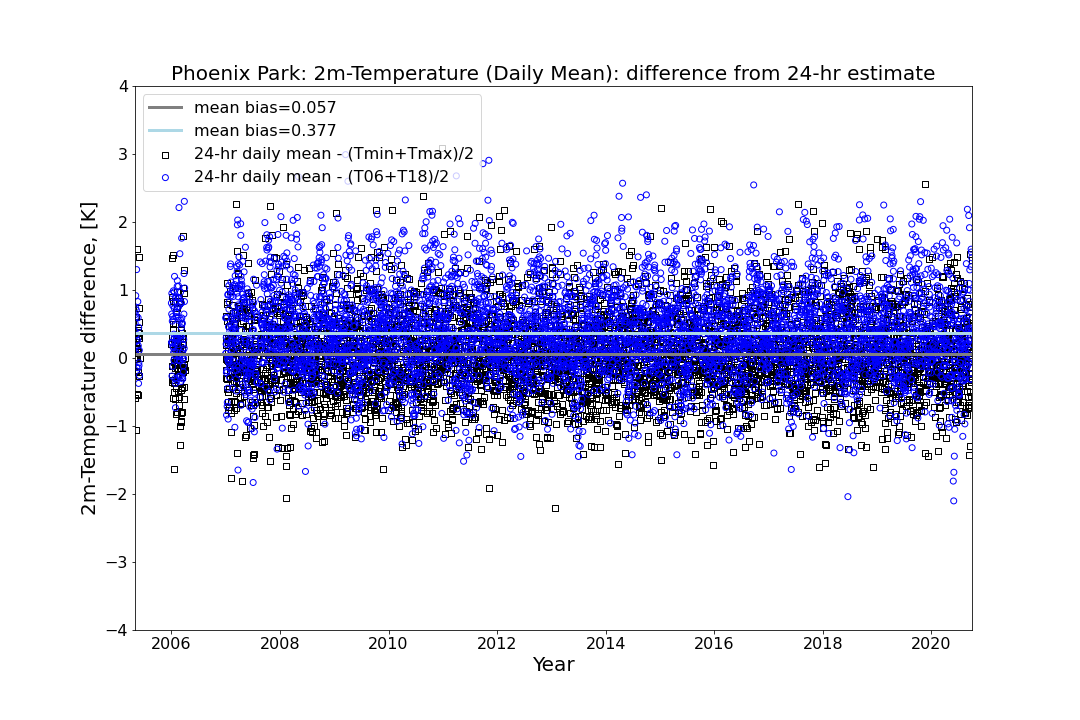
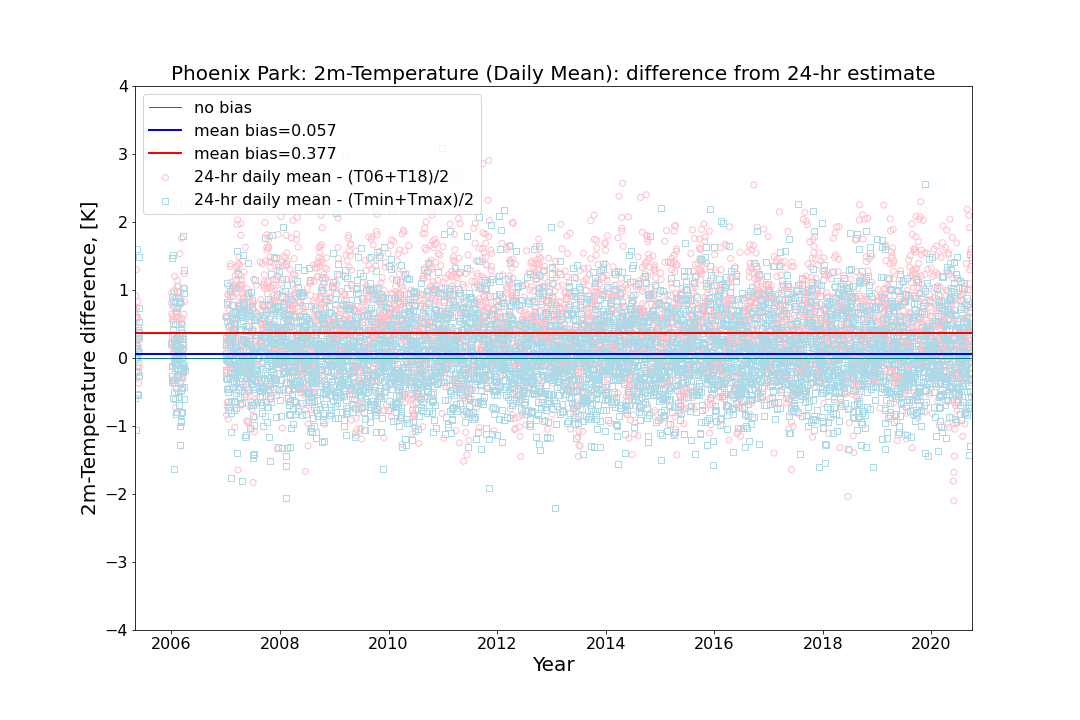
Monthly Tmeans. Added linear regression routine and correlation plots comparing daily and monthly values.

Changed region(s): [[0.1222, 0.1222, 0.9167, 0.6722]]

diff --git a/ANALYSIS/Hourly Data - Phoenix Park/hourly-analysis.py b/ANALYSIS/Hourly Data - Phoenix Park/hourly-analysis.py
@@ -4,8 +4,8 @@
 #------------------------------------------------------------------------------
 # PROGRAM: hourly-analysis.py
 #------------------------------------------------------------------------------
-# Version 0.1
-# 16 October, 2020
+# Version 0.2
+# 19 October, 2020
 # Michael Taylor
 # https://patternizer.github.io
 # patternizer AT gmail DOT com
@@ -57,6 +57,11 @@ import sys
 import subprocess
 from subprocess import Popen
 import time
+# Stats libraries:
+from sklearn import datasets, linear_model
+from sklearn.linear_model import LinearRegression, TheilSenRegressor
+from sklearn.linear_model import RANSACRegressor
+from sklearn.metrics import mean_squared_error, r2_score
 
 # Silence library version notifications
 import warnings
@@ -72,8 +77,28 @@ warnings.filterwarnings("ignore", message="numpy.ufunc size changed")
 
 fontsize = 20
 load_hourly = True
-hourly_analysis = True
-plot_hourly_analysis = True
+
+#------------------------------------------------------------------------------
+# METHODS: 
+#------------------------------------------------------------------------------
+
+def linear_regression_ols(x,y):
+
+    regr = linear_model.LinearRegression()
+    # regr = TheilSenRegressor(random_state=42)
+    # regr = RANSACRegressor(random_state=42)
+
+    X = x[:, np.newaxis]    
+    # X = x.values.reshape(len(x),1)
+    t = np.linspace(X.min(),X.max(),len(X)) # dummy var spanning [xmin,xmax]        
+    regr.fit(X, y)
+    ypred = regr.predict(t.reshape(-1, 1))
+    slope = regr.coef_
+    intercept = regr.intercept_
+    mse = mean_squared_error(y,ypred)
+    r2 = r2_score(y,ypred) 
+    
+    return t, ypred, slope, intercept, mse, r2
 
 #------------------------------------------------------------------------------
 # LOAD HOURLY DATA
@@ -141,122 +166,225 @@ else:
 # PERFORM HOURLY ANALYSIS
 #------------------------------------------------------------------------------
 
-if hourly_analysis == True:
-    
-    print('perform hourly analysis ...')
+print('perform hourly analysis ...')
 
-    daily_mean = df.groupby(['yyyy','mm','dd']).mean()['temp'] # AWS: 00:00 --> 23:00
-    daily_min = df.groupby(['yyyy','mm','dd']).min()['temp']
-    daily_max = df.groupby(['yyyy','mm','dd']).max()['temp']
-    daily_hh = np.array(df.groupby(['yyyy','mm','dd','hh'])['temp'])
-    daily = np.array(df.groupby(['yyyy','mm','dd'])['temp'])
+daily_mean = df.groupby(['yyyy','mm','dd']).mean()['temp'] # AWS: 00:00 --> 23:00
+daily_min = df.groupby(['yyyy','mm','dd']).min()['temp']
+daily_max = df.groupby(['yyyy','mm','dd']).max()['temp']
+daily_hh = np.array(df.groupby(['yyyy','mm','dd','hh'])['temp'])
+daily = np.array(df.groupby(['yyyy','mm','dd'])['temp'])
     
-#   Tx is read at 18 and Tn at 06.  In some parts of world (e.g. Europe) the Tx refers to the 06-18 period and the Tn to 18-06.
+# Tx is read at 18 and Tn at 06.  In some parts of world (e.g. Europe) the Tx refers to the 06-18 period and the Tn to 18-06.
 
-    t_daily = [ pd.to_datetime(str(daily_mean.index[i][0])+'-'+str(daily_mean.index[i][1])+'-'+str(daily_mean.index[i][2])) for i in range(len(daily_mean))]
-    daily_tmean = (daily_min+daily_max)/2
-    dates_tn_06 = []
-    dates_tx_18 = []
-    daily_tn_06 = []
-    daily_tx_18 = []
-    mask = []
-    for i in range(len(daily_hh)):
-        if daily_hh[i][0][3] == 6:            
-            obs = daily_hh[i][1]
-            date = pd.to_datetime(str(daily_hh[i][0][0])+'-'+str(daily_hh[i][0][1])+'-'+str(daily_hh[i][0][2]))
-            daily_tn_06.append(obs)            
-            dates_tn_06.append(date)            
-        if daily_hh[i][0][3] == 18:            
-            obs = daily_hh[i][1]
-            date = pd.to_datetime(str(daily_hh[i][0][0])+'-'+str(daily_hh[i][0][1])+'-'+str(daily_hh[i][0][2]))
-            daily_tx_18.append(obs)            
-            dates_tx_18.append(date)                    
-    daily_tn_06 = np.array(daily_tn_06)
-    daily_tx_18 = np.array(daily_tx_18)
-    dates_tmean_06_18 = dates_tx_18
-    daily_tmean_06_18 = (daily_tn_06+daily_tx_18)/2
+t_daily = [ pd.to_datetime(str(daily_mean.index[i][0])+'-'+str(daily_mean.index[i][1])+'-'+str(daily_mean.index[i][2])) for i in range(len(daily_mean))]
+daily_tmean = (daily_min+daily_max)/2
+dates_tn_06 = []
+dates_tx_18 = []
+daily_tn_06 = []
+daily_tx_18 = []
+mask = []
+    
+for i in range(len(daily_hh)):     
+    if daily_hh[i][0][3] == 6:            
+        obs = daily_hh[i][1]
+        date = pd.to_datetime(str(daily_hh[i][0][0])+'-'+str(daily_hh[i][0][1])+'-'+str(daily_hh[i][0][2]))
+        daily_tn_06.append(obs)            
+        dates_tn_06.append(date)            
+    if daily_hh[i][0][3] == 18:            
+        obs = daily_hh[i][1]
+        date = pd.to_datetime(str(daily_hh[i][0][0])+'-'+str(daily_hh[i][0][1])+'-'+str(daily_hh[i][0][2]))
+        daily_tx_18.append(obs)            
+        dates_tx_18.append(date)                    
+    
+daily_tn_06 = np.array(daily_tn_06)
+daily_tx_18 = np.array(daily_tx_18)
+dates_tmean_06_18 = dates_tx_18
+daily_tmean_06_18 = (daily_tn_06+daily_tx_18)/2
                         
-    dg1 = pd.DataFrame({'t_daily':t_daily,'daily_mean1':np.array(daily_mean)})
-    dg2 = pd.DataFrame({'t_daily':dates_tmean_06_18,'daily_mean2':daily_tmean_06_18.ravel()})
-    dg = pd.merge(dg1, dg2, how='inner', on=['t_daily'])
-    daily_mean_overlap_tmean_06_18 = dg['daily_mean1']-dg['daily_mean2']
-    mean_diff_tmean_06_18 = np.mean(daily_mean_overlap_tmean_06_18)
+dg0 = pd.DataFrame({'t_daily':t_daily,'daily_mean0':np.array(daily_mean)})
+dg1 = pd.DataFrame({'t_daily':t_daily,'daily_mean1':np.array(daily_tmean)})
+dg2 = pd.DataFrame({'t_daily':dates_tmean_06_18,'daily_mean2':daily_tmean_06_18.ravel()})
+dg01 = pd.merge(dg0, dg1, how='inner', on=['t_daily'])
+dg = pd.merge(dg01, dg2, how='inner', on=['t_daily'])
+        
+daily_diff01 = dg['daily_mean0']-dg['daily_mean1']
+daily_diff02 = dg['daily_mean0']-dg['daily_mean2']
+mean_daily_diff01 = np.nanmean(daily_diff01)
+mean_daily_diff02 = np.nanmean(daily_diff02)
 
-    dh1 = pd.DataFrame({'t_daily':t_daily,'daily_mean1':np.array(daily_mean)})
-    dh2 = pd.DataFrame({'t_daily':t_daily,'daily_mean2':daily_tmean.ravel()})
-    dh = pd.merge(dh1, dh2, how='inner', on=['t_daily'])
-    daily_mean_overlap_tmean = dh['daily_mean1']-dh['daily_mean2']
-    mean_diff_tmean = np.mean(daily_mean_overlap_tmean)
-       
+print('perform monthly analysis on daily data ...')
+
+monthly_means = dg.groupby(pd.Grouper(key='t_daily', freq='1M')).mean() 
+monthly_diff01 = monthly_means['daily_mean0']-monthly_means['daily_mean1']
+monthly_diff02 = monthly_means['daily_mean0']-monthly_means['daily_mean2']
+mean_monthly_diff01 = np.nanmean(monthly_diff01)
+mean_monthly_diff02 = np.nanmean(monthly_diff02)
+
+dh = dg.copy().dropna()
+daily_0 = dh['daily_mean0']
+daily_1 = dh['daily_mean1'] 
+daily_2 = dh['daily_mean2'] 
+
+dm = monthly_means.dropna()
+monthly_0 = dm['daily_mean0']
+monthly_1 = dm['daily_mean1'] 
+monthly_2 = dm['daily_mean2'] 
+
+t_daily_01, ypred_daily_01, slope_daily_01, intercept_daily_01, mse_daily_01, r2_daily_01 = linear_regression_ols(daily_0,daily_1)
+t_daily_02, ypred_daily_02, slope_daily_02, intercept_daily_02, mse_daily_02, r2_daily_02 = linear_regression_ols(daily_0,daily_2)
+t_monthly_01, ypred_monthly_01, slope_monthly_01, intercept_monthly_01, mse_monthly_01, r2_monthly_01 = linear_regression_ols(monthly_0,monthly_1)
+t_monthly_02, ypred_monthly_02, slope_monthly_02, intercept_monthly_02, mse_monthly_02, r2_monthly_02 = linear_regression_ols(monthly_0,monthly_2)
+
 #------------------------------------------------------------------------------
 # PLOT HOURLY ANALYSIS
 #------------------------------------------------------------------------------
 
-if plot_hourly_analysis == True:
+print('plot_hourly_analysis ...')
+
+# PLOT: Tmeans (all hours, (Tmin+Tmax)/2, (T06+T18)/2 )
+            
+figstr = 'phoenix-park-temp-daily-tmean.png'
+titlestr = 'Phoenix Park: 2m-Temperature (Daily Mean)'
+             
+xmin = df['datestamp'].min()
+xmax = df['datestamp'].max()
+
+fig, ax = plt.subplots(figsize=(15,10))          
+plt.scatter(df['datestamp'], df['temp'], marker='.', lw=1, color='lightgrey', label='hourly')
+plt.scatter(dg['t_daily'],dg['daily_mean1'], marker='o', facecolor='none', color='red', label='daily mean = (T06+T18)/2')
+plt.scatter(dg['t_daily'],dg['daily_mean2'], marker='s', facecolor='none', color='blue', label='daily mean = (Tmin+Tmax)/2')
+plt.scatter(dg['t_daily'],dg['daily_mean0'], marker='.', s=5, facecolor='none', color='black', label='24-hr daily mean')
+plt.xlim(xmin,xmax)    
+plt.ylim(-15,30)
+plt.tick_params(labelsize=16)    
+plt.legend(loc='upper left', fontsize=16)
+plt.xlabel('Year', fontsize=fontsize)
+plt.ylabel(r'2m-Temperature, [K]', fontsize=fontsize)
+plt.title(titlestr, fontsize=fontsize)
+plt.savefig(figstr)
+plt.close(fig)
+
+# PLOT: Tmean differences from all hours: (Tmin+Tmax)/2, (T06+T18)/2 
+            
+figstr = 'phoenix-park-temp-daily-tmean_diff.png'
+titlestr = 'Phoenix Park: 2m-Temperature (Daily Mean): difference from 24-hr estimate'
+         
+xmin = df['datestamp'].min()
+xmax = df['datestamp'].max()
     
-    print('plot_hourly_analysis ...')
+fig, ax = plt.subplots(figsize=(15,10))     
+plt.axhline(y=0, lw=1, color='teal', label='no bias')
+plt.scatter(dg['t_daily'],daily_diff02, marker='o', facecolor='none', color='pink', label='24-hr daily mean - (T06+T18)/2')
+plt.scatter(dg['t_daily'],daily_diff01, marker='s', facecolor='none', color='lightblue', label='24-hr daily mean - (Tmin+Tmax)/2')
+plt.axhline(y=mean_daily_diff01, lw=2, color='blue', label='mean bias='+str(np.round(mean_daily_diff01,3)))
+plt.axhline(y=mean_daily_diff02, lw=2, color='red', label='mean bias='+str(np.round(mean_daily_diff02,3)))
+plt.xlim(xmin,xmax)    
+plt.ylim(-4,4)
+plt.tick_params(labelsize=16)    
+plt.legend(loc='upper left', fontsize=16)
+plt.xlabel('Year', fontsize=fontsize)
+plt.ylabel(r'2m-Temperature difference, [K]', fontsize=fontsize)
+plt.title(titlestr, fontsize=fontsize)
+plt.savefig(figstr)
+plt.close(fig)
 
-    # PLOT: Tmeans (all hours, (Tmin+Tmax)/2, (T06+T18)/2 )
+# PLOT: Temperatures (2m, Wet Bulb, Dew Point)
+
+figstr = 'phoenix-park-temp-wetb-dewpt.png'
+titlestr = 'Phoenix Park: Temperatures'
+             
+fig, ax = plt.subplots(figsize=(15,10))          
+plt.scatter(df['datestamp'], df['temp'], marker='.', lw=1, color='lightgrey', alpha=1, label='2m-Temperature')
+plt.scatter(df['datestamp'], df['wetb'], marker='.', lw=1, color='cyan', alpha=1, label='Wet Bulb')
+plt.scatter(df['datestamp'], df['dewpt'], marker='.', lw=1, color='teal', alpha=0.3, label='Dew Point')
+plt.xlim(df['datestamp'].min(),df['datestamp'].max())    
+plt.ylim(-15,30)
+plt.tick_params(labelsize=16)    
+plt.legend(loc='upper left', fontsize=16)
+plt.xlabel('Year', fontsize=fontsize)
+plt.ylabel(r'Temperature, [K]', fontsize=fontsize)
+plt.title(titlestr, fontsize=fontsize)
+plt.savefig(figstr)
+plt.close(fig)
             
-    figstr = 'phoenix-park-temp-daily-tmean.png'
-    titlestr = 'Phoenix Park: 2m-Temperature (Daily Mean)'
-             
-    fig, ax = plt.subplots(figsize=(15,10))          
-    plt.scatter(df['datestamp'], df['temp'], marker='.', lw=1, color='lightgrey', label='hourly')
-#   plt.scatter(t_daily,daily_max, marker='x', color='purple', label='daily max')
-    plt.scatter(dates_tmean_06_18,daily_tmean_06_18, marker='s', facecolor='none', color='black', label='daily mean = (Tmin+Tmax)/2')
-    plt.scatter(t_daily,daily_tmean, marker='o', facecolor='none', color='blue', label='daily mean = (T06+T18)/2')
-    plt.scatter(t_daily,daily_mean, marker='.', facecolor='none', color='red', label='24-hr daily mean')
-#   plt.scatter(t_daily,daily_min, marker='o', facecolor='none', color='blue', label='daily min')
-    plt.xlim(df['datestamp'].min(),df['datestamp'].max())    
-    plt.ylim(-15,30)
-    plt.tick_params(labelsize=16)    
-    plt.legend(loc='upper left', fontsize=16)
-    plt.xlabel('Year', fontsize=fontsize)
-    plt.ylabel(r'2m-Temperature, [K]', fontsize=fontsize)
-    plt.title(titlestr, fontsize=fontsize)
-    plt.savefig(figstr)
-    plt.close(fig)
+#------------------------------------------------------------------------------
+# PLOT DAILY VERSUS MONTHLY CORRELATIONS
+#------------------------------------------------------------------------------
+    
+    # Tim: 
+    #
+    # Four scatter plots of 1 vs 2 and 1 vs 3 for daily means 
+    # and for monthly means of the daily values might be informative, 
+    # showing the degree of scatter and how much this scatter 
+    # reduces with the monthly averages, 
+    # and the best fit lines will presumably have an offset that 
+    # represents the mean bias and slopes close to 1. 
+    # Actually if the slopes aren't close to 1 it will be interesting 
+    # -- perhaps indicating that the bias is not constant but 
+    # depends either on season (more likely) or on extreme weather days 
+    # (possible, e.g. the bias might be dependent on the diurnal temperature 
+    # range which may be greater on clear sky days which in turn may be linked 
+    # with cold daily-means in winter but warm daily-means in summer).
 
-    # PLOT: Tmean differences from all hours: (Tmin+Tmax)/2, (T06+T18)/2 
-            
-    figstr = 'phoenix-park-temp-daily-tmean_diff.png'
-    titlestr = 'Phoenix Park: 2m-Temperature (Daily Mean): difference from 24-hr estimate'
-             
-    fig, ax = plt.subplots(figsize=(15,10))          
-    plt.scatter(t_daily, daily_mean_overlap_tmean, marker='s', facecolor='none', color='black', label='24-hr daily mean - (Tmin+Tmax)/2')
-    plt.scatter(dates_tmean_06_18, daily_mean_overlap_tmean_06_18, marker='o', facecolor='none', color='blue', label='24-hr daily mean - (T06+T18)/2')
-    plt.axhline(y=mean_diff_tmean, lw=3, color='grey', label='mean bias='+str(np.round(mean_diff_tmean,3)))
-    plt.axhline(y=mean_diff_tmean_06_18, lw=3, color='lightblue', label='mean bias='+str(np.round(mean_diff_tmean_06_18,3)))
-    plt.xlim(df['datestamp'].min(),df['datestamp'].max())    
-    plt.ylim(-4,4)
-    plt.tick_params(labelsize=16)    
-    plt.legend(loc='upper left', fontsize=16)
-    plt.xlabel('Year', fontsize=fontsize)
-    plt.ylabel(r'2m-Temperature difference, [K]', fontsize=fontsize)
-    plt.title(titlestr, fontsize=fontsize)
-    plt.savefig(figstr)
-    plt.close(fig)
+    # PLOT: Correlation of daily_mean0 v daily_mean1
+    # PLOT: Correlation of daily_mean0 v daily_mean2
+    # PLOT: Correlation of monthly_mean0 v monthly_mean1
+    # PLOT: Correlation of monthly_mean0 v monthly_mean2
 
-    # PLOT: Temperatures (2m, Wet Bulb, Dew Point)
+figstr = 'phoenix-park-temp-corr-tmean-txtn.png'
+titlestr = 'Phoenix Park: Correlation of Tmean and (Tx+Tn)/2: daily and monthly'         
+labelstr_OLS_daily = 'OLS'+r' ($\alpha$='+str(np.round(slope_daily_01[0],3))+r',$\beta$='+str(np.round(intercept_daily_01,3))+')'
+labelstr_OLS_monthly = 'OLS'+r' ($\alpha$='+str(np.round(slope_monthly_01[0],3))+r',$\beta$='+str(np.round(intercept_monthly_01,3))+')'
 
-    figstr = 'phoenix-park-temp-wetb-dewpt.png'
-    titlestr = 'Phoenix Park: Temperatures'
-             
-    fig, ax = plt.subplots(figsize=(15,10))          
-    plt.scatter(df['datestamp'], df['temp'], marker='.', lw=1, color='lightgrey', alpha=1, label='2m-Temperature')
-    plt.scatter(df['datestamp'], df['wetb'], marker='.', lw=1, color='cyan', alpha=1, label='Wet Bulb')
-    plt.scatter(df['datestamp'], df['dewpt'], marker='.', lw=1, color='teal', alpha=0.3, label='Dew Point')
-    plt.xlim(df['datestamp'].min(),df['datestamp'].max())    
-    plt.ylim(-15,30)
-    plt.tick_params(labelsize=16)    
-    plt.legend(loc='upper left', fontsize=16)
-    plt.xlabel('Year', fontsize=fontsize)
-    plt.ylabel(r'Temperature, [K]', fontsize=fontsize)
-    plt.title(titlestr, fontsize=fontsize)
-    plt.savefig(figstr)
-    plt.close(fig)
-        
+xmin = np.min([daily_0.min(),daily_1.min()])
+xmax = np.max([daily_0.max(),daily_1.max()])
+
+fig, ax = plt.subplots(figsize=(15,10))   
+plt.plot([xmin,xmax],[xmin,xmax], color='teal', ls='-', lw=1, label='1:1')       
+plt.plot(t_daily_01,ypred_daily_01, color='black', linewidth=1, label=labelstr_OLS_daily)
+plt.plot(t_monthly_01,ypred_monthly_01, color='blue', linewidth=2, label=labelstr_OLS_monthly)
+plt.scatter(daily_0,daily_1, marker='.', facecolor='lightgrey', color='black', alpha=1, label='daily')
+plt.scatter(monthly_0,monthly_1, marker='s', facecolor='none', color='lightblue', alpha=1, label='monthly')
+plt.xlim(xmin,xmax)
+plt.ylim(xmin,xmax)
+ax.set_aspect('equal') 
+ax.xaxis.grid(True, which='major')      
+ax.yaxis.grid(True, which='major')  
+plt.tick_params(labelsize=16)    
+plt.legend(loc='upper left', fontsize=16)
+plt.xlabel('Tmean', fontsize=fontsize)
+plt.ylabel(r'(Tx+Tn)/2', fontsize=fontsize)
+plt.title(titlestr, fontsize=fontsize)
+plt.savefig(figstr)
+plt.close(fig)
+
+figstr = 'phoenix-park-temp-corr-tmean-t06t18.png'
+titlestr = 'Phoenix Park: Correlation of Tmean and (T06+T18)/2: daily and monthly'         
+labelstr_OLS_daily = 'OLS'+r' ($\alpha$='+str(np.round(slope_daily_02[0],3))+r',$\beta$='+str(np.round(intercept_daily_02,3))+')'
+labelstr_OLS_monthly = 'OLS'+r' ($\alpha$='+str(np.round(slope_monthly_02[0],3))+r',$\beta$='+str(np.round(intercept_monthly_02,3))+')'
+
+#xmin = np.min([daily_0.min(),daily_2.min()])
+#xmax = np.max([daily_0.max(),daily_2.max()])
+
+fig, ax = plt.subplots(figsize=(15,10))          
+plt.plot([xmin,xmax],[xmin,xmax], color='teal', ls='-', lw=1, label='1:1')
+plt.plot(t_daily_02,ypred_daily_02, color='black', linewidth=1, label=labelstr_OLS_daily)
+plt.plot(t_monthly_02,ypred_monthly_02, color='red', linewidth=2, label=labelstr_OLS_monthly)
+plt.scatter(daily_0,daily_2, marker='.', facecolor='lightgrey', color='black', alpha=1, label='daily')
+plt.scatter(monthly_0,monthly_2, marker='o', facecolor='none', color='pink', alpha=1, label='monthly')
+plt.xlim(xmin,xmax)
+plt.ylim(xmin,xmax)
+ax.set_aspect('equal') 
+ax.xaxis.grid(True, which='major')      
+ax.yaxis.grid(True, which='major')  
+plt.tick_params(labelsize=16)    
+plt.legend(loc='upper left', fontsize=16)
+plt.xlabel('Tmean', fontsize=fontsize)
+plt.ylabel(r'(T06+T18)/2', fontsize=fontsize)
+plt.title(titlestr, fontsize=fontsize)
+plt.savefig(figstr)
+plt.close(fig)
+       
 #------------------------------------------------------------------------------
 print('** END')
 
